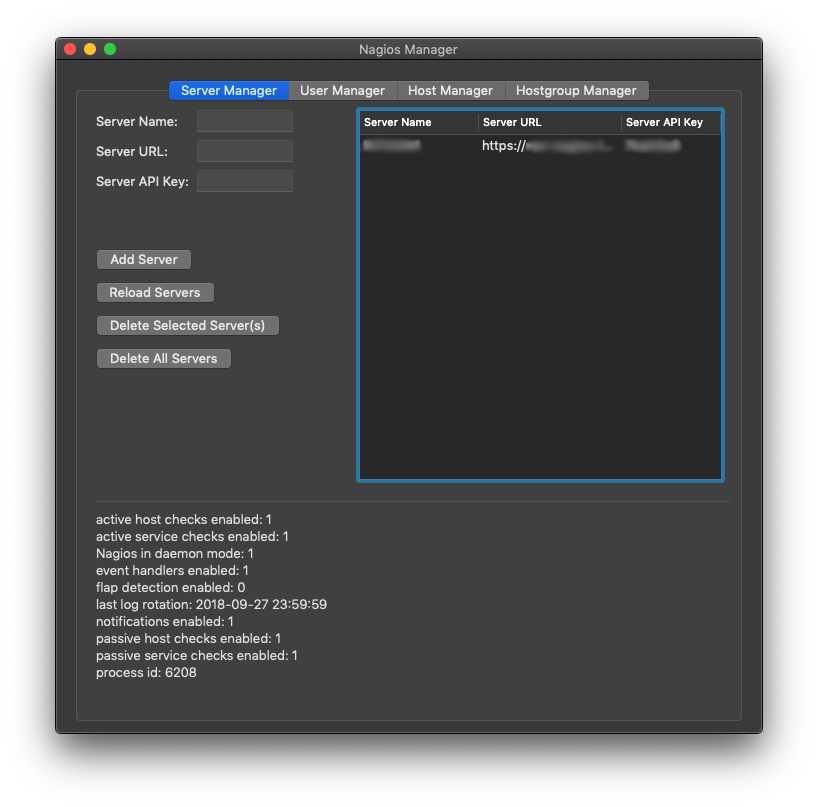
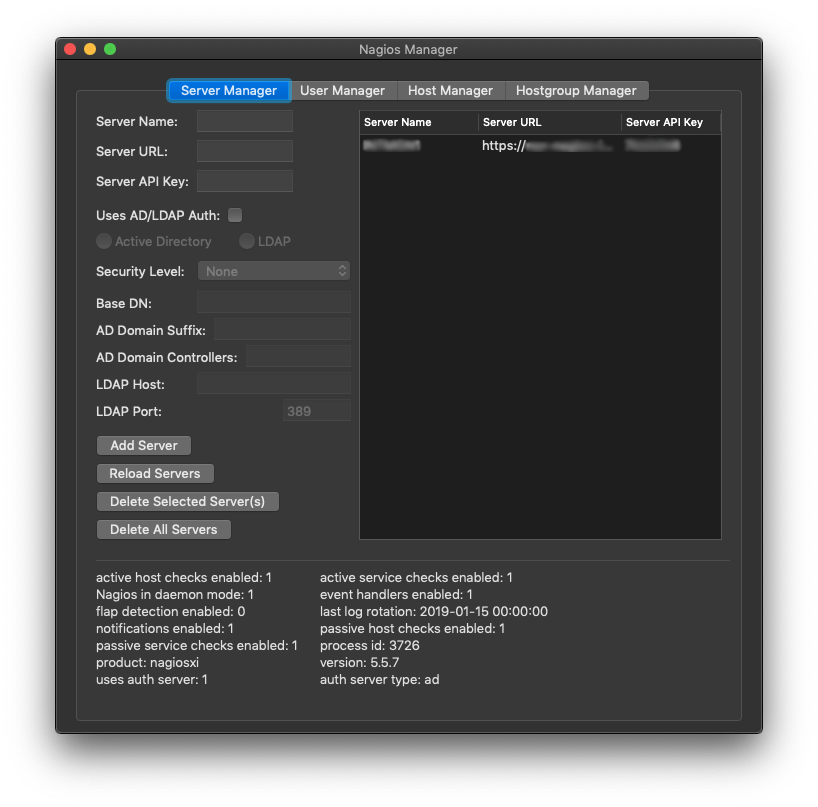
Updated help for server manager tab

Changed region(s): [[0.0917, 0.2478, 0.6724, 0.8674], [0.4279, 0.1239, 0.8863, 0.6815], [0.1834, 0.0929, 0.3667, 0.1549]]

diff --git a/NagiosManager.help/Contents/Resources/en-US.lproj/Page3.html b/NagiosManager.help/Contents/Resources/en-US.lproj/Page3.html
@@ -111,7 +111,7 @@
             <a href="javascript:$('#tree').fancytree('getTree').activateKey('Page2')">
                 <span class="Normal_link">main table</span>
             </a>
-            <span class="Normal">&nbsp;also allows you to delete it from Nagios Manager. You can delete the server by selecting it, then clicking the “Delete Selected Server(s) button, or by double-clicking the server you want to delete. Either way will display a “Are you sure you want to do this” dialog. If you click “OK” in the dialog, the server will be deleted. (Note that currently, you can’t select multiple servers. But soon, you will be able to do just that.)</span>
+            <span class="Normal">&nbsp;also allows you to delete it from Nagios Manager. You can delete the server by selecting it, then clicking the “Delete Selected Server(s) button, or by double-clicking the server you want to delete. Either way will display a “Are you sure you want to do this” dialog. If you click “OK” in the dialog, the server will be deleted. (Note that currently, you can’t select multiple servers. But soon, you will be able to do that.)</span>
         </p>
         <p class="Left">
             <br />
@@ -123,29 +123,110 @@
             <hr style="color:RGBA(0,0,0,1.000000);background-color:RGBA(0,0,0,1.000000);height:1.000000pt;" />
         </p>
         <p class="Left Normal">
-            <span class="Normal">To add a server, you have to have the server name, the server URL, and the server API key:</span>
+            <span class="Normal">To add a server, at a minimum you have to have the server name, the server URL, the server API key and how the server will authenticate:</span>
+        </p>
+        <p class="Left Normal">
+            <span class="Normal bold">Basic Settings</span>
         </p>
         <ul class="listDisc">
             <li class="Normal">
                 <p class="Left Normal">
-                    <span class="Normal">The name of the server goes in the Server Name field. This can be anything you want it to be, it is only there for your ease of identification. This is also the name you will use when selecting servers in the other tabs, so you should make it reasonably short and immediately meaningful. “Network Nagios Server” is immediately meaningful, “NNS34QPK5” less so.</span>
+                    <span class="Normal">The name of the server goes in the&nbsp;</span>
+                    <span class="Normal bold">Server Name</span>
+                    <span class="Normal">&nbsp;field. This can be anything you want it to be, it is only there for your ease of identification. This is also the name you will use when selecting servers in the other tabs, so you should make it reasonably short and immediately meaningful. “Network Nagios Server” is immediately meaningful, “NNS34QPK5” less so.</span>
                 </p>
             </li>
             <li class="Normal">
                 <p class="Left Normal Custom1 Custom0">
-                    <span class="Normal">The URL for the server goes in the Server URL field.&nbsp;</span>
+                    <span class="Normal">The URL for the server goes in the&nbsp;</span>
+                    <span class="Normal bold">Server URL</span>
+                    <span class="Normal">&nbsp;field.&nbsp;</span>
                     <span class="Custom1">IMPORTANT</span>
                     <span class="Custom0">:&nbsp;</span>
-                    <span class="Custom1">ONLY</span>
-                    <span class="Normal">enter in the main DNS name or IP address for the server, i.e. http(s)://my.nagios.com/ or https://10.10.10.10/. Do not enter anything else, as at the moment, the basic URL form is grafted on the end of what you enter here. If you enter the wrong thing here, Nagios Manager will not be able to properly communicated with your server.&nbsp;</span>
+                    <span class="Custom1">ONLY&nbsp;</span>
+                    <span class="Normal">enter in the main DNS name or IP address for the server, i.e. http(s)://my.nagios.com/ or https://10.10.10.10/. Do not enter anything else, as at the moment, the basic URL form is grafted on the end of what you enter here. If you enter the wrong thing here, Nagios Manager will not be able to properly communicate with your server.&nbsp;</span>
                 </p>
             </li>
-            <li class="Normal">
+            <li class="Normal bold">
                 <p class="Left Normal">
-                    <span class="Normal">Server API Key: This is available from your user account on the Nagios Server you’re adding to Nagios Manager. For best results, it should be an admin account API Key. There’s not a really good way for Nagios Manager to validate what a given key can or cannot do. If you enter an API key that is not an admin key, your results will be…uncertain.</span>
+                    <span class="Normal bold">Server API Key</span>
+                    <span class="Normal">: This is available from your user account on the Nagios Server you’re adding to Nagios Manager. For best results, it should be an admin account API Key. There’s not a really good way for Nagios Manager to validate what a given key can or cannot do. If you enter an API key that is not an admin key, your results will be…uncertain.</span>
+                </p>
+            </li>
+            <li class="Normal bold">
+                <p class="Left Normal">
+                    <span class="Normal bold">Uses AD/LDAP Auth</span>
+                    <span class="Normal">&nbsp;- Fairly simple. If you want to use an external authentication server, enable this checkbox. if you want to use local&nbsp;</span>
+                    <span class="Normal italic">only</span>
+                    <span class="Normal">, leave this unchecked. Note that if you have a combination of local/external users, enable this. You don’t have to use external auth, but if you don’t set it</span>
                 </p>
             </li>
         </ul>
+        <p class="Left Normal">
+            <span class="Normal bold">Authentication Server Settings</span>
+        </p>
+        <p class="Left">
+            <br />
+        </p>
+        <ul class="listDisc">
+            <li class="Normal bold">
+                <p class="Left Normal">
+                    <span class="Normal bold">Common Authentication Server Controls</span>
+                </p>
+            </li>
+            <li class="Normal">
+                <p style="margin-left:72.000000pt" class="Left Normal">
+                    <span class="Normal">Connection Method - Choose either AD or LDAP. You get one external option per server, AD or LDAP. Not both. If there’s actually a real need for both, I can change that later.</span>
+                </p>
+            </li>
+            <li class="Normal">
+                <p style="margin-left:72.000000pt" class="Left Normal">
+                    <span class="Normal">Security Level - Options are None, TLS, SSL. The value here should always match the value you have set up within the AD/LDAP setup on the specific Nagios server. At this point, you should probably not be using SSL.</span>
+                </p>
+            </li>
+            <li class="Normal">
+                <p style="margin-left:72.000000pt" class="Left Normal">
+                    <span class="Normal">Base DN: the base DN of your AD or LDAP tree, for example, “DC=nagios, DC=com”. Each DC= entry must be separated by a comma</span>
+                </p>
+            </li>
+            <li class="Normal bold">
+                <p class="Left Normal">
+                    <span class="Normal bold">Active Directory Settings</span>
+                </p>
+            </li>
+            <li class="Normal">
+                <p style="margin-left:72.000000pt" class="Left Normal">
+                    <span class="Normal">AD Domain Suffix - this is primarily used for Active Directory, it’s the “new” (Since 2000) “Kerberos” style of domain/user name. So instead of “NAGIOS\john”, it’d be “john@nagios.com”.&nbsp;</span>
+                </p>
+            </li>
+            <li class="Normal">
+                <p style="margin-left:72.000000pt" class="Left Normal">
+                    <span class="Normal">AD Domain Controllers - A comma-delimited list of DNS names and/or IP addresses for your AD/LDAP domain controllers, (DCs). AD setups can have many, many DCs,&nbsp;</span>
+                </p>
+            </li>
+            <li class="Normal bold">
+                <p class="Left Normal">
+                    <span class="Normal bold">LDAP Settings</span>
+                </p>
+            </li>
+            <li class="Normal">
+                <p style="margin-left:72.000000pt" class="Left Normal">
+                    <span class="Normal">LDAP Host - The IP address or DNS name of the LDAP server you want to use for authentication. Currently, you get one, choose wisely.</span>
+                </p>
+            </li>
+            <li class="Normal">
+                <p style="margin-left:72.000000pt" class="Left Normal">
+                    <span class="Normal">LDAP Port - The numerical port you use to connect to the LDAP Host on. Generically, this is 389 for unsecure connections and 636 for TLS/SSL</span>
+                </p>
+            </li>
+        </ul>
+        <p class="Left">
+            <br />
+        </p>
+        <p class="Left Normal">
+            <span class="Normal bold">Add Server&nbsp;</span>
+            <span class="Normal">- Once you’ve filled in the information for the server, this adds the server to the Nagios Manager prefs. IMPORTANT: this only adds it to the application prefs. It does not in any way, shape, or form configure a Nagios server. If what you have here does not match the server you’re pointing Nagios Manager at, you’re not going to be able to use Nagios Manager with that Nagios server.</span>
+        </p>
         <p class="Left">
             <br />
         </p>

diff --git a/NagiosManager.help/Contents/Resources/en-US.lproj/Page1.html b/NagiosManager.help/Contents/Resources/en-US.lproj/Page1.html
@@ -19,7 +19,7 @@
             <span class="Normal">This app is supported under macOS 10.13 and later. If it works on 10.12 and earlier, great, but if it has problems, you’re mostly on your own.</span>
         </p>
         <p class="Left Normal">
-            <span class="Normal">Nagios XI versions supported are versions 5.2 and later. Earlier versions don’t have the REST API, so Nagios Manager can’t work with them.</span>
+            <span class="Normal">Nagios XI versions supported are versions 5.5.X and later. Earlier versions don’t have the REST API, so Nagios Manager can’t work with them.</span>
         </p>
         <p class="Left Heading2">
             <span class="Heading2">IMPORTANT</span>
@@ -27,9 +27,9 @@
         <p class="Left Normal">
             <span class="Normal">Nagios Manager version 1.8 is the&nbsp;</span>
             <span class="Normal bold">LAST</span>
-            <span class="Normal">&nbsp;version that will work with Nagios prior to version 5.5.x. Nagios made some massive changes to the REST API with the 5.5.x series, which makes supporting both versions extremely tedious. There’s too much error checking involved to make it worth the effort for me. The source is up on github, if you want to fork it for your own&nbsp;</span>
+            <span class="Normal">&nbsp;version that will work with Nagios prior to version 5.5.x. Nagios made some massive changes to the REST API with the 5.5.x series, which makes supporting both versions extremely tedious. There’s too much error checking involved to make it worth the effort for me. The source for that version is up on github at https://github.com/johncwelch/Nagios-Manager, if you want to fork it for your own&nbsp;</span>
             <span class="Normal italic">internal</span>
-            <span class="Normal">&nbsp;use, you’re welcome to do so. The official version will only support 5.5.x starting with 1.9.</span>
+            <span class="Normal">&nbsp;use, you’re welcome to do so. The official version will only support 5.5.x starting with 2.0. (this version) The github link for 2.X and later is: https://github.com/johncwelch/Nagios-Manager-2</span>
         </p>
         <p class="Left">
             <br />
